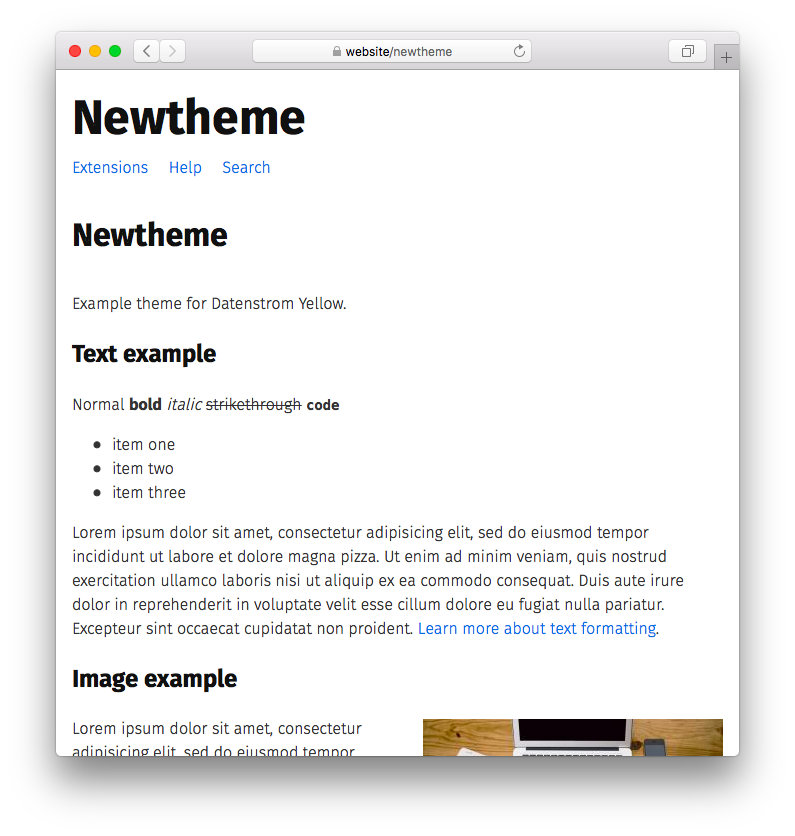
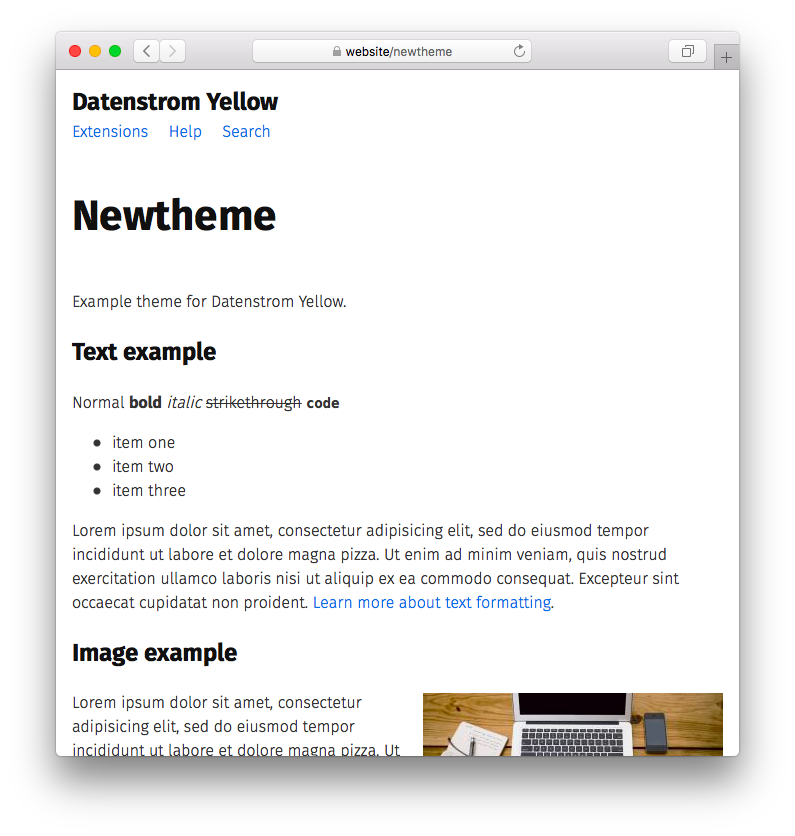
Updated extension and screenshot

diff --git a/newtheme.css b/newtheme.css
@@ -12,6 +12,7 @@
     --link: #07d;
     --link-active: #07d;
     --blockquote-accent: #ddd;
+    --separator: #ddd;
     --border: #bbb;
     --font: "Fira Sans", Helvetica, sans-serif;
     --monospace-font: Consolas, Menlo, Courier, monospace;
@@ -59,6 +60,9 @@ h1, h2, h3, h4, h5, h6 {
     color: var(--heading);
     font-weight: 700;
 }
+h1 {
+    font-size: 2.6em;
+}
 a {
     color: var(--link);
     text-decoration: none;
@@ -86,6 +90,26 @@ a:hover {
 }
 .content form {
     margin: 1em 0;
+}
+.content table {
+    border-spacing: 0;
+    border-collapse: collapse;
+}
+.content th:not([align]) {
+    text-align: left;
+}
+.content th,
+.content td {
+    padding: 0.3em;
+    padding-left: 2em;
+}
+.content th:first-child,
+.content td:first-child {
+    padding: 0.3em;
+}
+.content td {
+    border-top: 1px solid var(--separator);
+    border-bottom: 1px solid var(--separator);
 }
 .content code,
 .content pre {
@@ -143,7 +167,7 @@ a:hover {
 }
 .header .sitename h1 {
     margin: 0;
-    font-size: 3em;
+    font-size: 1.5em;
     font-weight: 700;
 }
 .header .sitename h1 a {
